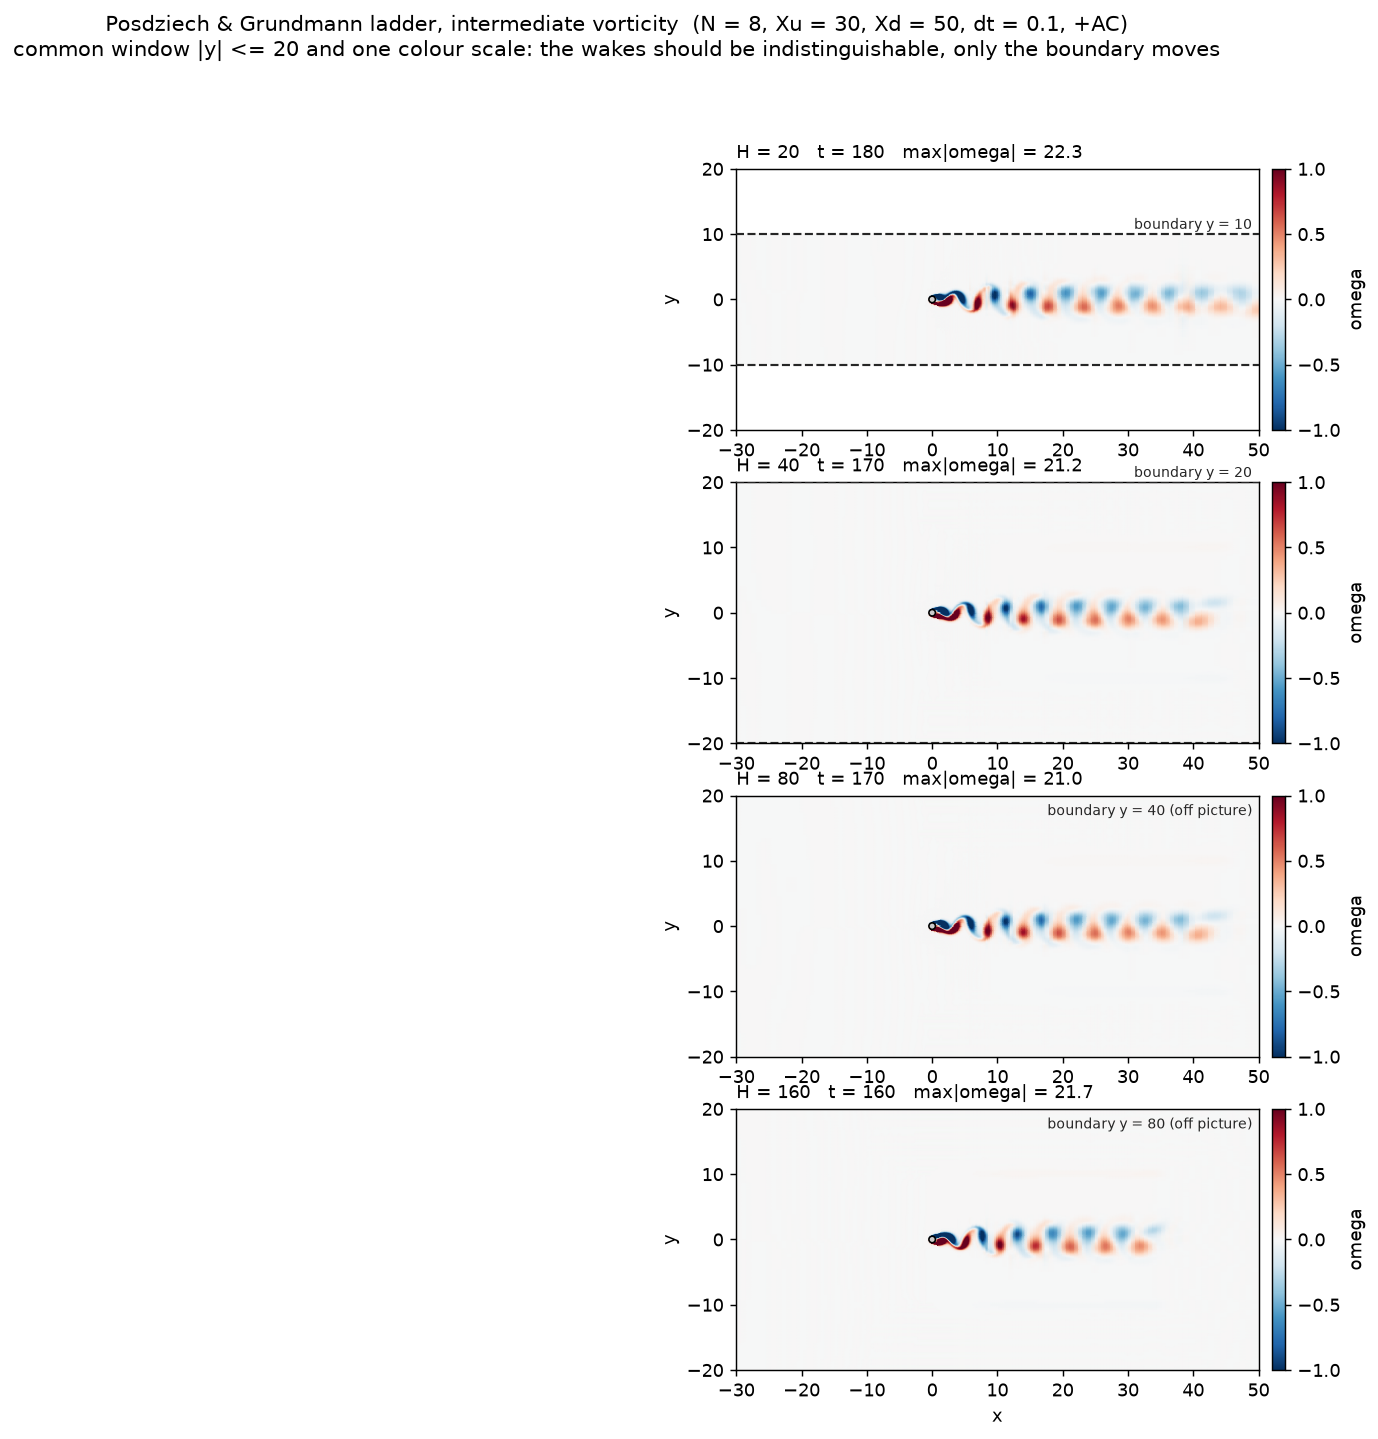
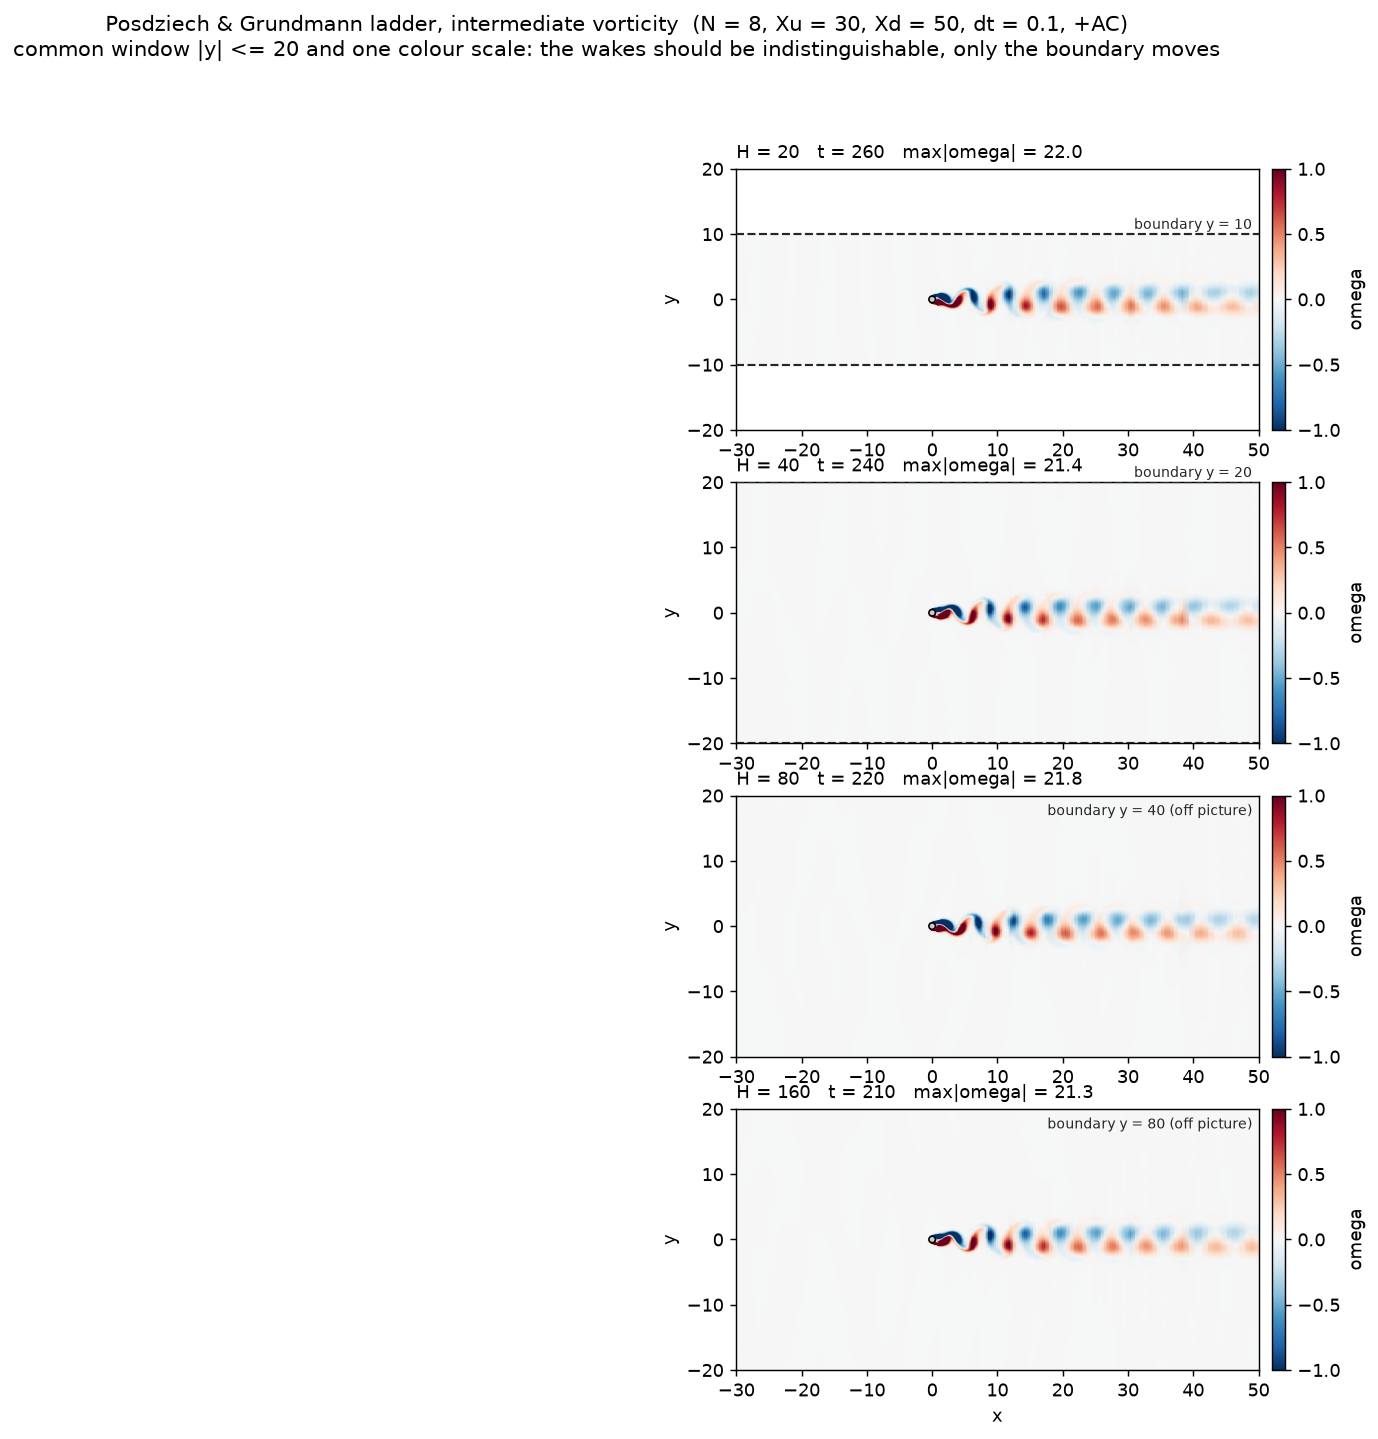
Audit the cylinder force integral
The forces are the headline numbers of the whole cylinder study and had never
been checked independently.  Four tests, each of which a different class of bug
would fail, and all four pass:

  geometry   sum(ds) = pi*D to 0.0e+00, and sum(n ds) = 1e-16 -- a closed body
             in uniform pressure feels no force, which is the sharp test of the
             normals and arc weights together
  no-slip    max|u| = max|v| = 0 exactly on the integration nodes, so the
             omega-form nu*omega*t is valid there
  the split  C_Dp 1.0073, C_Df 0.3443, friction share 25.5 % against Qu et al.
             (2013) 25.4 % and Park et al. (1998) 25.6 %
  cross-check  the viscous traction recomputed as nu*(grad u + grad u^T).n from
             the velocity field -- no shared code, no shared variable -- agrees
             with the omega-form to 4.8e-05 in C_D, 0.014 % of the friction

THE SPLIT IS THE TEST WITH TEETH.  A wrong constant, a wrong normal or a wrong
viscous formula distorts the RATIO of pressure to friction drag; a flow-level
error scales both together.  Ours are both ~2 % high in the same proportion,
which is what blockage does and what a formula error does not.  So the residual
discrepancy is in the flow, not in the force integral -- which is the one
explanation that would have invalidated the whole domain ladder.

The 4.8e-05 residual in test 4 is not error: it is the least-squares slack in
omega - curl u, which this formulation enforces weakly rather than exactly.

diff --git a/scratch/audit_forces.py b/scratch/audit_forces.py
@@ -1,0 +1,109 @@
+"""Audit of the cylinder force integral: is C_D / C_L computed correctly?
+
+The forces are the headline numbers of the whole cylinder study and had never
+been independently checked.  Four tests, each of which a different class of bug
+would fail:
+
+1. GEOMETRY.  sum(ds) must equal pi*D and sum(n ds) must vanish.  The second is
+   the sharp one: a closed body in uniform pressure feels no force, so any error
+   in the normals or the arc weights shows up there even when the circumference
+   happens to come out right.
+
+2. NO-SLIP.  The omega-form of the viscous traction, nu*omega*t, is only valid
+   where u = 0 on the wall; if the Dirichlet condition were not exact the
+   tangential-derivative terms it drops would not vanish.
+
+3. THE PRESSURE/FRICTION SPLIT against the literature.  This is the test with
+   teeth.  A wrong constant, a wrong normal or a wrong viscous formula distorts
+   the SPLIT; a flow-level error (blockage, resolution) scales both parts
+   together.  Qu et al. (2013) and Park et al. (1998) both report C_Dp
+   separately, so the friction share is checkable at Re = 100.
+
+4. AN INDEPENDENT VISCOUS TRACTION.  Recompute it as nu*(grad u + grad u^T).n
+   from the velocity field, which shares no code and no variable with the
+   omega-form.  They must agree to the size of the least-squares slack in
+   omega - curl u, which this formulation enforces only weakly.
+"""
+import os
+import sys
+
+_R = os.path.dirname(os.path.dirname(os.path.abspath(__file__)))
+sys.path.insert(0, _R)
+sys.path.insert(0, os.path.join(_R, 'scratch'))
+os.chdir(_R)
+sys.argv = [sys.argv[0], '--N', '8']            # driver parses argv at import
+
+import numpy as np
+import lssem2d
+from lssem2d import curvi
+from lssem2d.lgl import diff_matrix
+import curvi_cyl_re100 as drv
+
+RUN = 'scratch/_cyl_pg_H80/final.npz'
+NU = 0.01
+LIT = (('Qu et al. (2013) D9', 0.984, 1.319), ('Park et al. (1998)', 0.99, 1.33))
+
+
+def main():
+    lssem2d.set_backend('numpy')
+    m = curvi.build_cylinder_box(
+        N=8, xs_upstream=curvi.nested_upstream_edges(30.0, 3),
+        xs_downstream=curvi.nested_downstream_edges(50.0, 3),
+        ys_side=curvi.chained_lateral_edges(40.0, 2))
+    m.compute_global_indices()
+    D = diff_matrix(m.N)
+    wn = drv.wall_nodes(m, D)
+    U = np.load(RUN, allow_pickle=True)['U0']
+
+    print('1. geometry of the wall quadrature')
+    arc = sum(float(ws.sum()) for _, _, _, ws in wn)
+    nxs = sum(float((ws*nx).sum()) for _, nx, _, ws in wn)
+    nys = sum(float((ws*ny).sum()) for _, _, ny, ws in wn)
+    print(f'   wall edges {len(wn)} (expect 16);  sum(ds) {arc:.10f} vs pi '
+          f'{np.pi:.10f}, err {abs(arc-np.pi):.1e}')
+    print(f'   closure sum(n_x ds) {nxs:+.1e}   sum(n_y ds) {nys:+.1e}')
+
+    print('\n2. no-slip on the integration nodes')
+    uw = max(float(np.abs(U[e, 0, :, 0]).max()) for e, _, _, _ in wn)
+    vw = max(float(np.abs(U[e, 0, :, 1]).max()) for e, _, _, _ in wn)
+    print(f'   max|u| {uw:.1e}   max|v| {vw:.1e}')
+
+    print('\n3. pressure / friction split')
+    fxp = fxv = fyp = fyv = 0.0
+    for e, nx, ny, ws in wn:
+        p, om = U[e, 0, :, 2], U[e, 0, :, 3]
+        tx, ty = -ny, nx
+        fxp += float((ws*(-p*nx)).sum()); fxv += float((ws*(NU*om*tx)).sum())
+        fyp += float((ws*(-p*ny)).sum()); fyv += float((ws*(NU*om*ty)).sum())
+    cdp, cdf = 2*fxp, 2*fxv
+    print(f'   ours                C_Dp {cdp:.4f}  C_Df {cdf:.4f}  '
+          f'share {100*cdf/(cdp+cdf):.1f} %')
+    for nm, p_, t_ in LIT:
+        print(f'   {nm:19s} C_Dp {p_:.4f}  C_Df {t_-p_:.4f}  '
+              f'share {100*(t_-p_)/t_:.1f} %')
+
+    print('\n4. viscous traction, omega-form vs velocity-gradient form')
+    ddr = lambda A: np.einsum('ai,eij->eaj', D, A)
+    dds = lambda A: np.einsum('bj,eij->eib', D, A)
+    g = {}
+    for k, f in (('u', 0), ('v', 1)):
+        g[k+'x'] = m.rx*ddr(U[..., f]) + m.sx*dds(U[..., f])
+        g[k+'y'] = m.ry*ddr(U[..., f]) + m.sy*dds(U[..., f])
+    gx = gy = 0.0
+    for e, nx, ny, ws in wn:
+        a, b = g['ux'][e, 0, :], g['uy'][e, 0, :]
+        c, d = g['vx'][e, 0, :], g['vy'][e, 0, :]
+        gx += float((ws*(NU*(2*a*nx + (b + c)*ny))).sum())
+        gy += float((ws*(NU*((b + c)*nx + 2*d*ny))).sum())
+    print(f'   friction C_D  omega {2*fxv:+.5f}  gradient {2*gx:+.5f}  '
+          f'diff {abs(2*fxv-2*gx):.1e}')
+    print(f'   friction C_L  omega {2*fyv:+.5f}  gradient {2*gy:+.5f}  '
+          f'diff {abs(2*fyv-2*gy):.1e}')
+    print(f'   total    C_D  omega {cdp+cdf:.5f}  gradient {2*fxp+2*gx:.5f}')
+    print('\n   the residual IS the least-squares slack in omega - curl u, which '
+          'this\n   formulation enforces weakly; it is not an error in the '
+          'force integral.')
+
+
+if __name__ == '__main__':
+    main()
